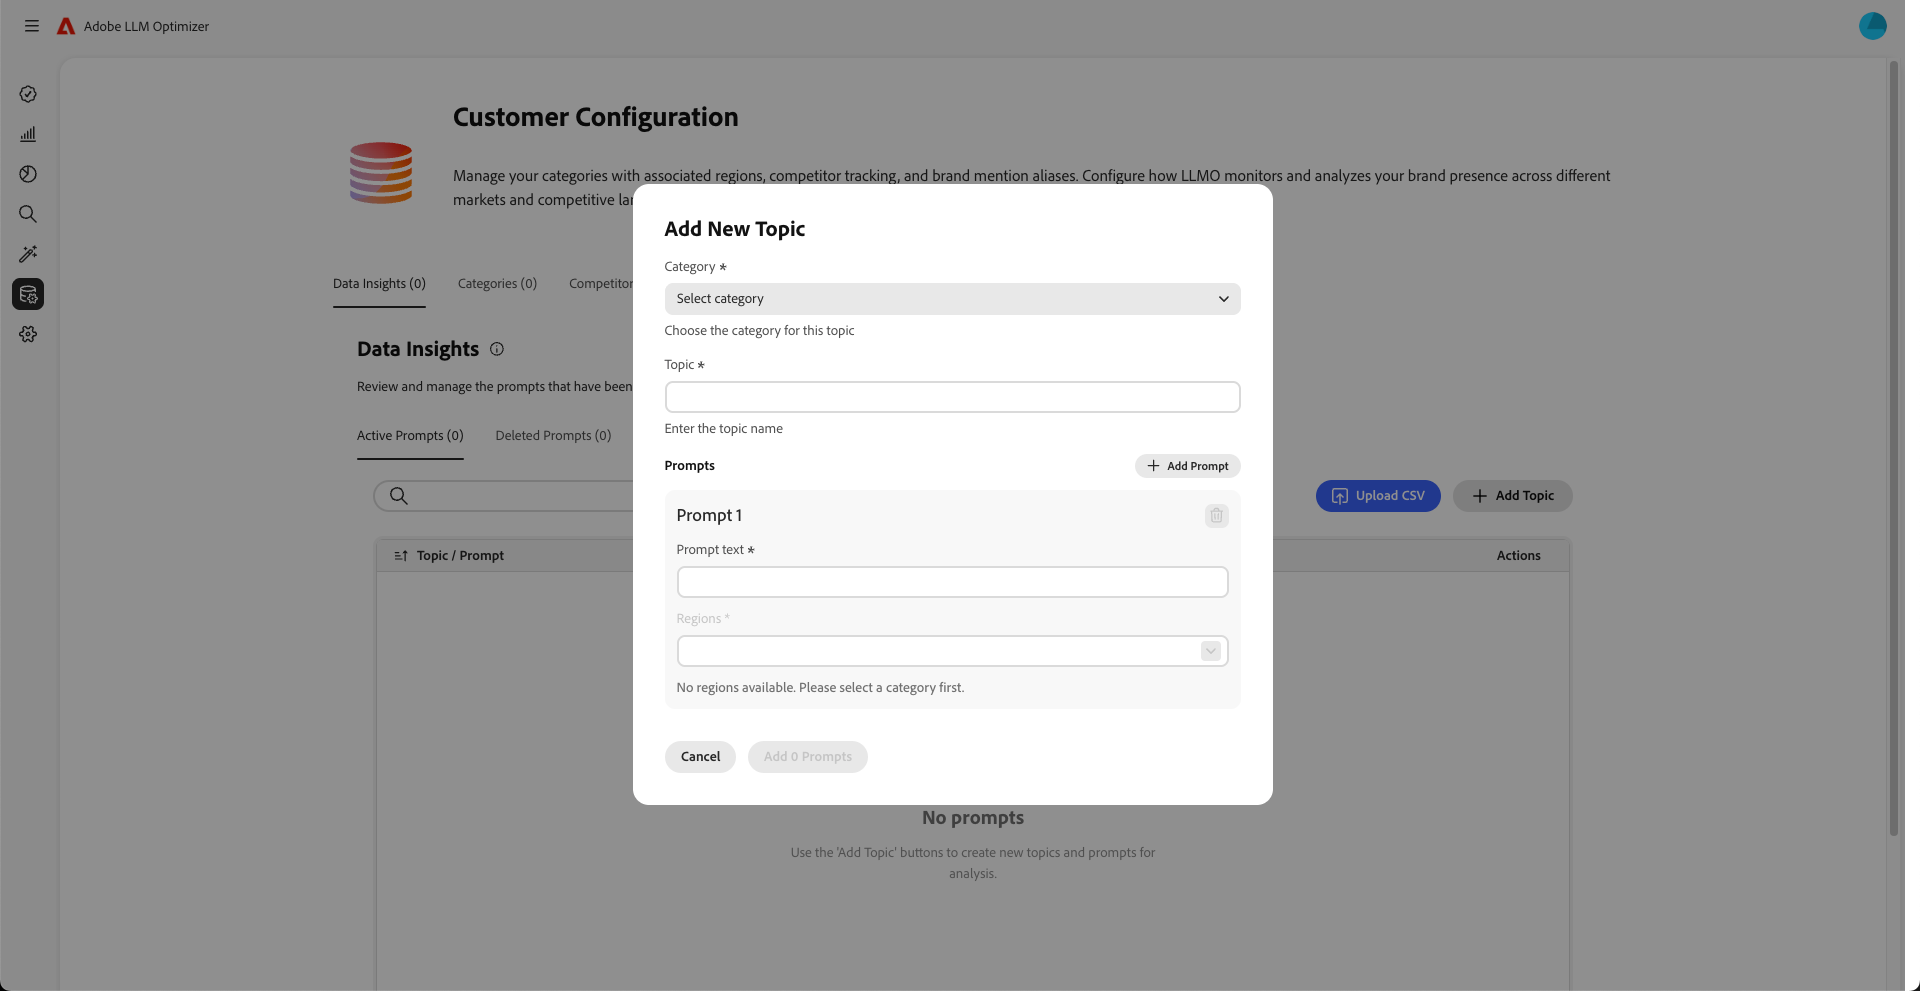
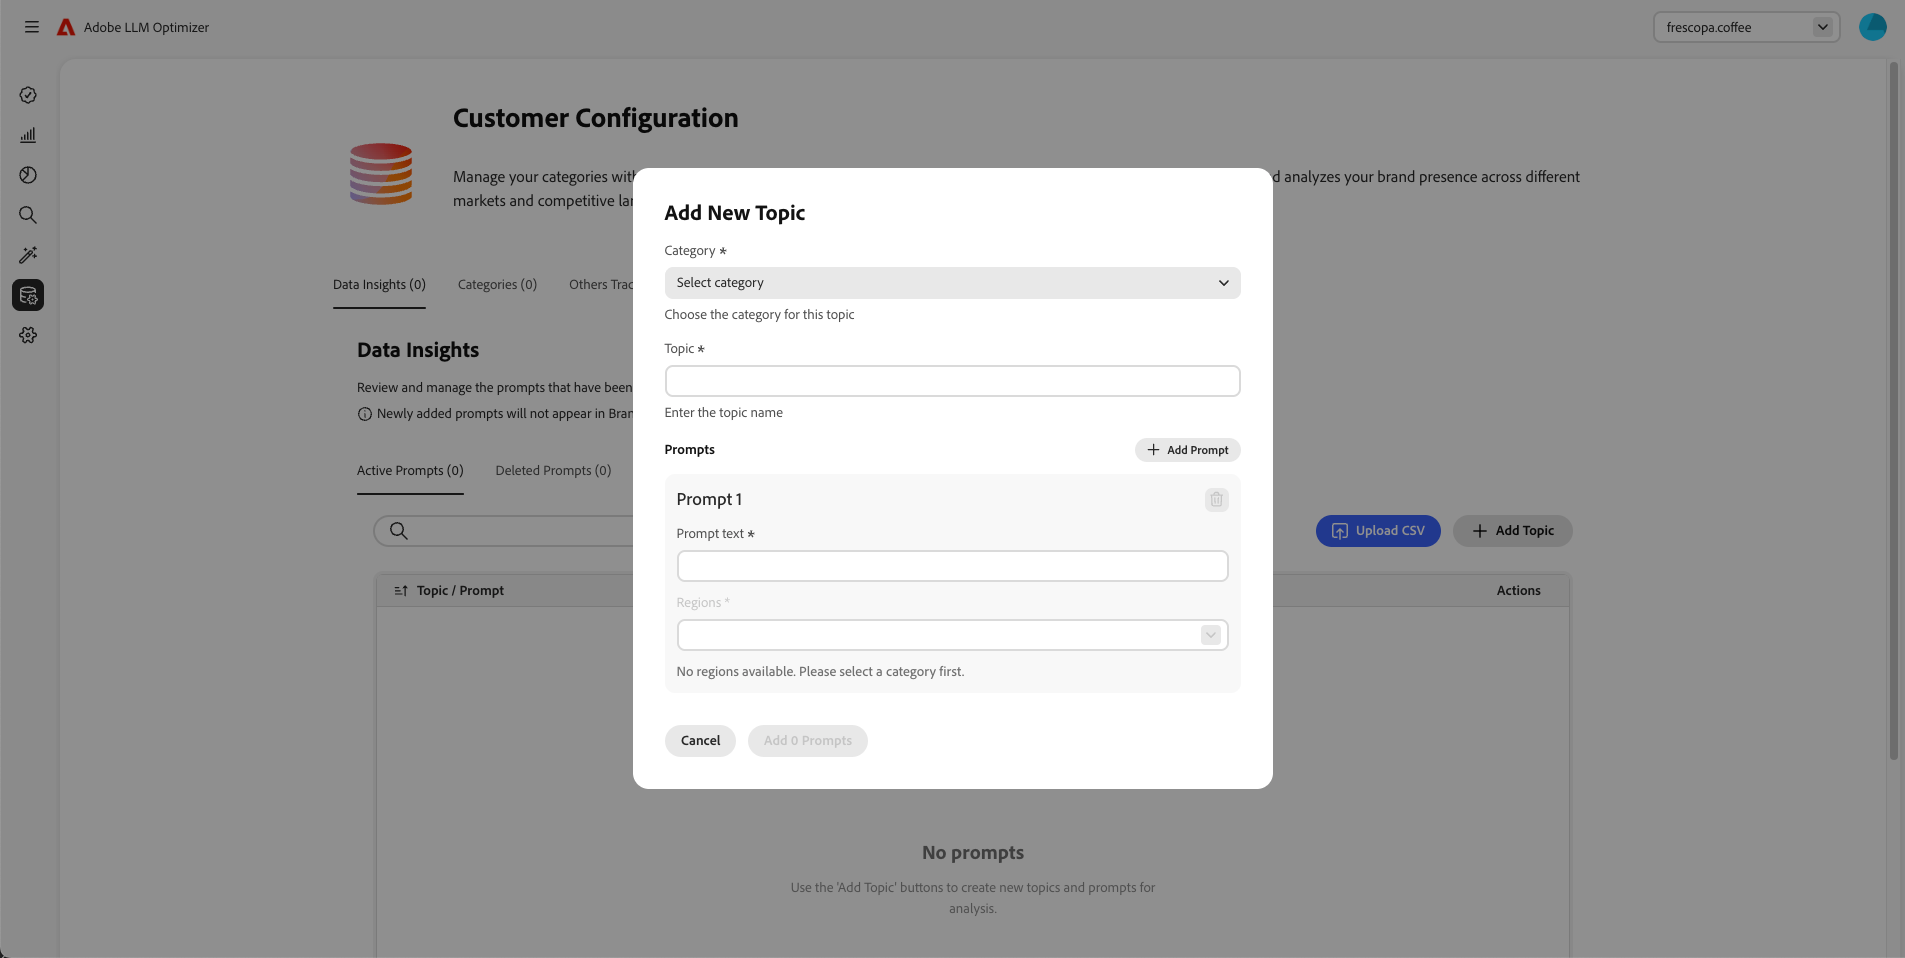
changes re UI

diff --git a/help/home.md b/help/home.md
@@ -13,16 +13,16 @@ Adobe LLM Optimizer is a generative AI-first application for Generative Engine O
 
 <!-- CARDS
 
+* ./overview/overview.md
+  {title= LLM Optimizer overview}
+  {image= /help/assets/overview/llm-overview-card.png}
+  {description= Learn about how Adobe LLM Optimizer boosts brand visibility in AI-driven search.}
+  {target=_blank}
+  {cta=Learn more}
 * ./overview/quick-start.md
   {title= Quickstart guide}
   {description= Learn how to quickly get up and running with the LLM Optimizer.}
   {image= /help/assets/overview/agentic-traffic-card.png}
-  {target=_blank}
-  {cta=Learn more}
-* ./overview/best-practices-topics-prompts.md
-  {title= Best practices for setting up categories, topics, prompts, and competitors}
-  {description= Learn how to configure LLM Optimizer for tailored brand monitoring and strategic content analysis.}
-  {image= /help/assets/overview/customer-configuration-card.png}
   {target=_blank}
   {cta=Learn more}
 * ./dashboards/dashboards-overview.md
@@ -34,6 +34,29 @@ Adobe LLM Optimizer is a generative AI-first application for Generative Engine O
 -->
 <!-- START CARDS HTML - DO NOT MODIFY BY HAND -->
 <div class="columns">
+    <div class="column is-half-tablet is-half-desktop is-one-third-widescreen" aria-label="LLM Optimizer overview">
+        <div class="card" style="height: 100%; display: flex; flex-direction: column; height: 100%;">
+            <div class="card-image">
+                <figure class="image x-is-16by9">
+                    <a href="./overview/overview.md" title="LLM Optimizer overview" target="_blank" rel="referrer">
+                        <img class="is-bordered-r-small" src="/help/assets/overview/llm-overview-card.png" alt="LLM Optimizer overview"
+                             style="width: 100%; aspect-ratio: 16 / 9; object-fit: cover; overflow: hidden; display: block; margin: auto;">
+                    </a>
+                </figure>
+            </div>
+            <div class="card-content is-padded-small" style="display: flex; flex-direction: column; flex-grow: 1; justify-content: space-between;">
+                <div class="top-card-content">
+                    <p class="headline is-size-6 has-text-weight-bold">
+                        <a href="./overview/overview.md" target="_blank" rel="referrer" title="LLM Optimizer overview">LLM Optimizer overview</a>
+                    </p>
+                    <p class="is-size-6">Learn about how Adobe LLM Optimizer boosts brand visibility in AI-driven search.</p>
+                </div>
+                <a href="./overview/overview.md" target="_blank" rel="referrer" class="spectrum-Button spectrum-Button--outline spectrum-Button--primary spectrum-Button--sizeM" style="align-self: flex-start; margin-top: 1rem;">
+                    <span class="spectrum-Button-label has-no-wrap has-text-weight-bold">Learn more</span>
+                </a>
+            </div>
+        </div>
+    </div>
     <div class="column is-half-tablet is-half-desktop is-one-third-widescreen" aria-label="Quickstart guide">
         <div class="card" style="height: 100%; display: flex; flex-direction: column; height: 100%;">
             <div class="card-image">
@@ -52,29 +75,6 @@ Adobe LLM Optimizer is a generative AI-first application for Generative Engine O
                     <p class="is-size-6">Learn how to quickly get up and running with the LLM Optimizer.</p>
                 </div>
                 <a href="./overview/quick-start.md" target="_blank" rel="referrer" class="spectrum-Button spectrum-Button--outline spectrum-Button--primary spectrum-Button--sizeM" style="align-self: flex-start; margin-top: 1rem;">
-                    <span class="spectrum-Button-label has-no-wrap has-text-weight-bold">Learn more</span>
-                </a>
-            </div>
-        </div>
-    </div>
-    <div class="column is-half-tablet is-half-desktop is-one-third-widescreen" aria-label="Best practices for setting up categories, topics, prompts, and competitors">
-        <div class="card" style="height: 100%; display: flex; flex-direction: column; height: 100%;">
-            <div class="card-image">
-                <figure class="image x-is-16by9">
-                    <a href="./overview/best-practices-topics-prompts.md" title="Best practices for setting up categories, topics, prompts, and competitors" target="_blank" rel="referrer">
-                        <img class="is-bordered-r-small" src="/help/assets/overview/customer-configuration-card.png" alt="Best practices for setting up categories, topics, prompts, and competitors"
-                             style="width: 100%; aspect-ratio: 16 / 9; object-fit: cover; overflow: hidden; display: block; margin: auto;">
-                    </a>
-                </figure>
-            </div>
-            <div class="card-content is-padded-small" style="display: flex; flex-direction: column; flex-grow: 1; justify-content: space-between;">
-                <div class="top-card-content">
-                    <p class="headline is-size-6 has-text-weight-bold">
-                        <a href="./overview/best-practices-topics-prompts.md" target="_blank" rel="referrer" title="Best practices for setting up categories, topics, prompts, and competitors">Best practices for setting up categories, topics, prompts, and competitors</a>
-                    </p>
-                    <p class="is-size-6">Learn how to configure LLM Optimizer for tailored brand monitoring and strategic content analysis.</p>
-                </div>
-                <a href="./overview/best-practices-topics-prompts.md" target="_blank" rel="referrer" class="spectrum-Button spectrum-Button--outline spectrum-Button--primary spectrum-Button--sizeM" style="align-self: flex-start; margin-top: 1rem;">
                     <span class="spectrum-Button-label has-no-wrap has-text-weight-bold">Learn more</span>
                 </a>
             </div>
@@ -112,8 +112,14 @@ Adobe LLM Optimizer is a generative AI-first application for Generative Engine O
 
 <!-- CARDS
 
+* ./overview/best-practices-topics-prompts.md
+  {title= Best practices for setting up categories, topics, prompts, and tracking others}
+  {description= Learn how to configure LLM Optimizer for tailored brand monitoring and strategic content analysis.}
+  {image= /help/assets/overview/customer-configuration-card.png}
+  {target=_blank}
+  {cta=Learn more}
 * ./tutorials/best-practices.md
-  {title= Best practices for marketers and SEO analysts}
+  {title= Best practices for LLM optimization using Adobe LLM Optimizer}
   {image= /help/assets/overview/best-practices-card.png}
   {description= Learn how LLM Optimizer can help you drive brand authority in AI search and discovery.}
 * https://business.adobe.com/products/llm-optimizer.html
@@ -125,12 +131,12 @@ Adobe LLM Optimizer is a generative AI-first application for Generative Engine O
 -->
 <!-- START CARDS HTML - DO NOT MODIFY BY HAND -->
 <div class="columns">
-    <div class="column is-half-tablet is-half-desktop is-one-third-widescreen" aria-label="Best practices for marketers and SEO analysts">
+    <div class="column is-half-tablet is-half-desktop is-one-third-widescreen" aria-label="Best practices for setting up categories, topics, prompts, and tracking others">
         <div class="card" style="height: 100%; display: flex; flex-direction: column; height: 100%;">
             <div class="card-image">
                 <figure class="image x-is-16by9">
-                    <a href="./tutorials/best-practices.md" title="Best practices for marketers and SEO analysts" target="_blank" rel="referrer">
-                        <img class="is-bordered-r-small" src="/help/assets/overview/best-practices-card.png" alt="Best practices for marketers and SEO analysts"
+                    <a href="./overview/best-practices-topics-prompts.md" title="Best practices for setting up categories, topics, prompts, and tracking others" target="_blank" rel="referrer">
+                        <img class="is-bordered-r-small" src="/help/assets/overview/customer-configuration-card.png" alt="Best practices for setting up categories, topics, prompts, and tracking others"
                              style="width: 100%; aspect-ratio: 16 / 9; object-fit: cover; overflow: hidden; display: block; margin: auto;">
                     </a>
                 </figure>
@@ -138,7 +144,30 @@ Adobe LLM Optimizer is a generative AI-first application for Generative Engine O
             <div class="card-content is-padded-small" style="display: flex; flex-direction: column; flex-grow: 1; justify-content: space-between;">
                 <div class="top-card-content">
                     <p class="headline is-size-6 has-text-weight-bold">
-                        <a href="./tutorials/best-practices.md" target="_blank" rel="referrer" title="Best practices for marketers and SEO analysts">Best practices for marketers and SEO analysts</a>
+                        <a href="./overview/best-practices-topics-prompts.md" target="_blank" rel="referrer" title="Best practices for setting up categories, topics, prompts, and tracking others">Best practices for setting up categories, topics, prompts, and tracking others</a>
+                    </p>
+                    <p class="is-size-6">Learn how to configure LLM Optimizer for tailored brand monitoring and strategic content analysis.</p>
+                </div>
+                <a href="./overview/best-practices-topics-prompts.md" target="_blank" rel="referrer" class="spectrum-Button spectrum-Button--outline spectrum-Button--primary spectrum-Button--sizeM" style="align-self: flex-start; margin-top: 1rem;">
+                    <span class="spectrum-Button-label has-no-wrap has-text-weight-bold">Learn more</span>
+                </a>
+            </div>
+        </div>
+    </div>
+    <div class="column is-half-tablet is-half-desktop is-one-third-widescreen" aria-label="Best practices for LLM optimization using Adobe LLM Optimizer">
+        <div class="card" style="height: 100%; display: flex; flex-direction: column; height: 100%;">
+            <div class="card-image">
+                <figure class="image x-is-16by9">
+                    <a href="./tutorials/best-practices.md" title="Best practices for LLM optimization using Adobe LLM Optimizer" target="_blank" rel="referrer">
+                        <img class="is-bordered-r-small" src="/help/assets/overview/best-practices-card.png" alt="Best practices for LLM optimization using Adobe LLM Optimizer"
+                             style="width: 100%; aspect-ratio: 16 / 9; object-fit: cover; overflow: hidden; display: block; margin: auto;">
+                    </a>
+                </figure>
+            </div>
+            <div class="card-content is-padded-small" style="display: flex; flex-direction: column; flex-grow: 1; justify-content: space-between;">
+                <div class="top-card-content">
+                    <p class="headline is-size-6 has-text-weight-bold">
+                        <a href="./tutorials/best-practices.md" target="_blank" rel="referrer" title="Best practices for LLM optimization using Adobe LLM Optimizer">Best practices for LLM optimization using Adobe LLM Optimizer</a>
                     </p>
                     <p class="is-size-6">Learn how LLM Optimizer can help you drive brand authority in AI search and discovery.</p>
                 </div>

diff --git a/help/overview/best-practices-topics-prompts.md b/help/overview/best-practices-topics-prompts.md
@@ -1,11 +1,11 @@
 ---
 title: Best Practices for Categories, Topics, and Prompts
-description: Optimize LLM insights by configuring categories, topics, prompts, and competitors for tailored brand monitoring and strategic content analysis.
+description: Optimize LLM insights by configuring categories, topics, prompts, and other sites to track for tailored brand monitoring and strategic content analysis.
 ---
 
-# Best practices for configuring categories, topics, prompts, and competitors
+# Best practices for configuring categories, topics, prompts, and other brands to track
 
-This section describes best practices for deciding how you want to set up your categories, topics, prompts, and competitors.
+This section describes best practices for deciding how you want to set up your categories, topics, prompts, and other brands to track.
 
 This is a vital first step. What you decide now determines how information is tailored to your business context. Any changes to categories in the future reset historical data.
 
@@ -13,7 +13,7 @@ The [[!UICONTROL Customer Configuration]](/help/dashboards/customer-configuratio
 
 ![Customer configuration window](/help/assets/best-practices/customer-configuration-best-practices.png)
 
-In the [!UICONTROL Customer Configuration] dashboard, you can customize categories (such as business units or product lines), track competitors, and add brand mention aliases to capture all variations of your brand across prompts. This setup ensures the platform tailors insights to your business context, enabling accurate visibility, traffic, and opportunity analysis.
+In the [!UICONTROL Customer Configuration] dashboard, you can customize categories (such as business units or product lines), track other brands, and add brand mention aliases to capture all variations of your brand across prompts. This setup ensures the platform tailors insights to your business context, enabling accurate visibility, traffic, and opportunity analysis.
 
 ## Best practices for categories
 

diff --git a/help/tutorials/best-practices.md b/help/tutorials/best-practices.md
@@ -152,7 +152,7 @@ Here are steps that you can follow to monitor progress:
 1. Benchmark your current visibility.
     * Identify how often and where your brand is mentioned and cited and what the sentiment is in Adobe LLM Optimizer. See the [Brand Presence](/help/dashboards/brand-presence.md) dashboard.
     * Analyze prompts where your brand appears and where it doesn't.
-    * Compare visibility against competitors.
+    * Compare visibility against competitors (in **Others Tracking** in the [Customer Configuration dashboard](/help/dashboards/customer-configuration.md)).
     * Review visibility on user-generated platforms like Reddit, Quora, and Wikipedia. Segment by platform (ChatGPT, Google AI mode, and so on)
     * Monitor agentic traffic to understand which pages LLMs visit. Agentic traffic often does **not** go to the home page but other pages lower in the hierarchy. See the [Agentic Traffic](/help/assets/overview/agentic-traffic-card.png) dashboard.
 1. Monitor changes over time.
@@ -220,7 +220,7 @@ To optimize for agentic traffic:
 * Ensure crawlability by reviewing robots.txt and CDN settings.
 * Use the [URL Inspector](/help/dashboards/url-inspector.md) to analyze URL performance.
 * Track bot behavior by accessing your CDN logs in the [Agentic traffic dashboard](/help/dashboards/agentic-traffic.md).
-* Segment traffic to understand business outcomes. See [Best practices for categories, topics, prompts, and competitors](/help/overview/best-practices-topics-prompts.md).
+* Segment traffic to understand business outcomes. See [Best practices for categories, topics, and prompts](/help/overview/best-practices-topics-prompts.md).
 
 Here are the metrics to monitor:
 
